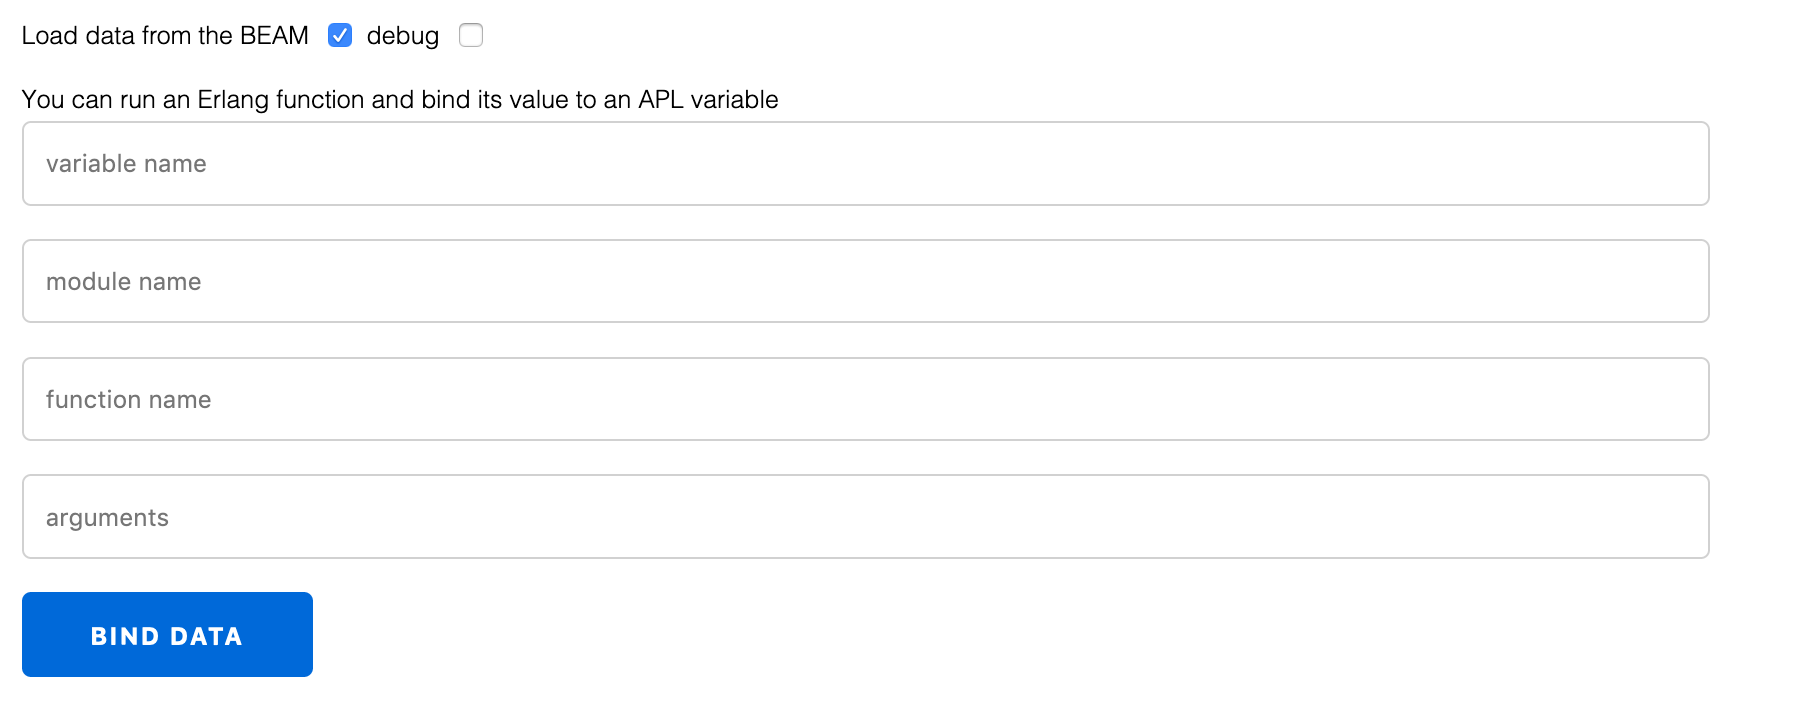
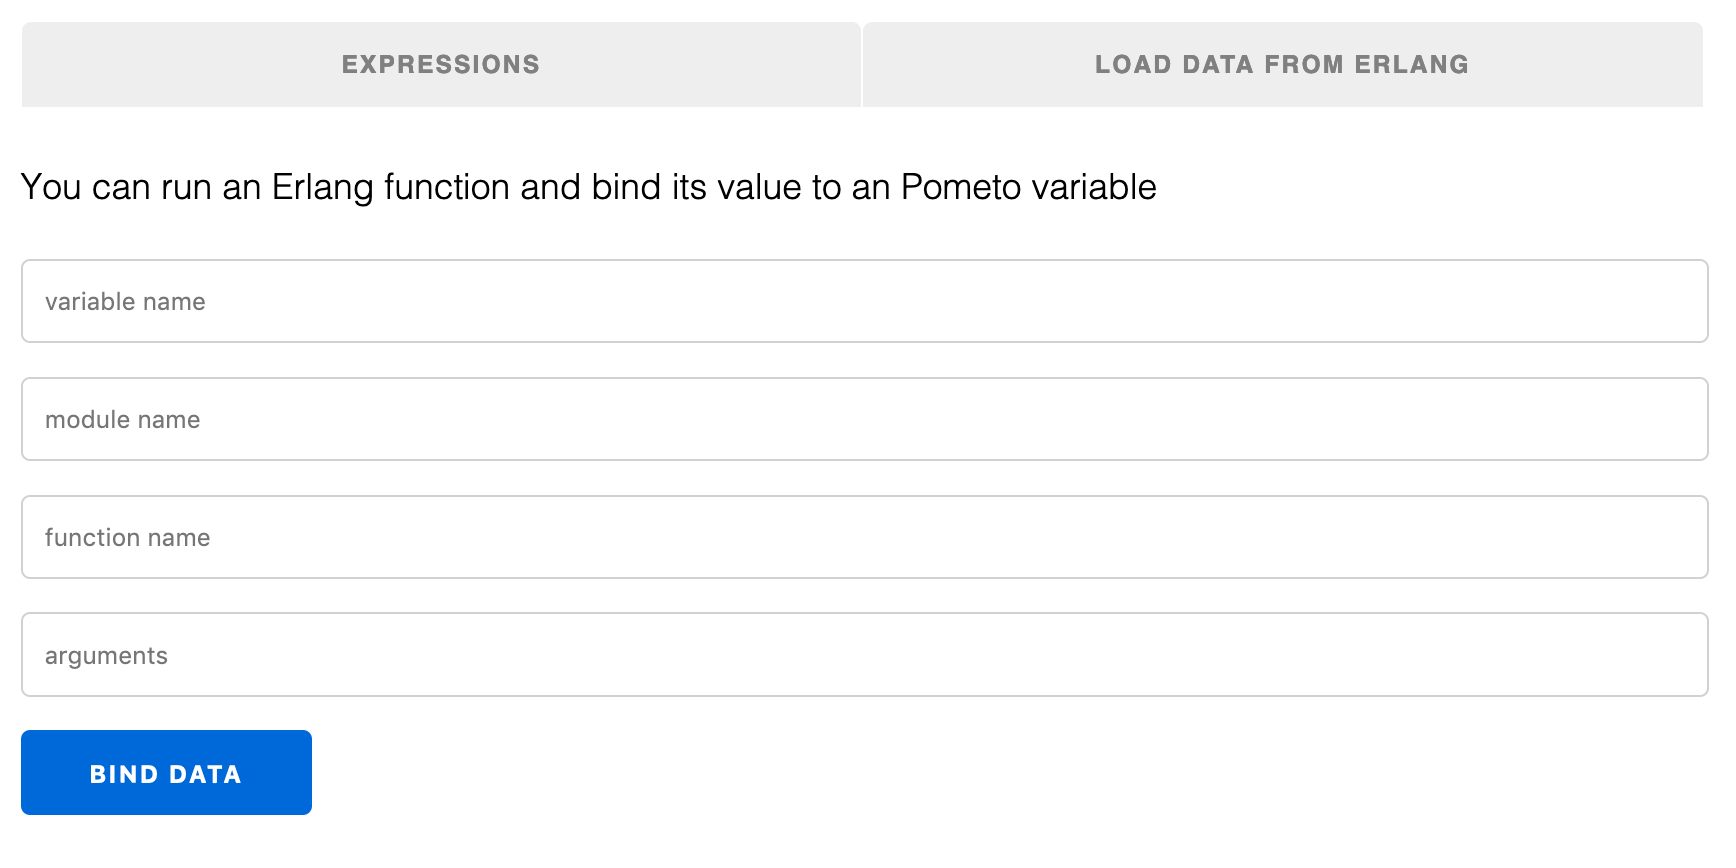
Mixed bag of changes:
* big tidy up of GUI to make it look purtier
* old lexer/parser debugging stripped out becuz proper error handling is on its way
    * not implemented for the parser next
* ability to save and reply sessions
    * the main REPL now accepts multi-line input
    * this will be improved when the comment symbol is wired in - the session save will have the results and external bindings commented in

In addition:

* there is a new cut of the README with new screenshots
* generally making the code more purty, turning mahoosive functions into smaller ones

The CSS as always remains boggin - proper back-end boy does CSS shitshow

diff --git a/apps/rappel_web/assets/css/rappel.css b/apps/rappel_web/assets/css/rappel.css
@@ -8,7 +8,7 @@
 }
 
 .main_output {
-	height: 400px;
+	height: 350px;
 }
 
 .debug {
@@ -54,10 +54,13 @@
 
 .menu-item  {
 	border-radius: 0.4rem 0.4rem 0.0rem 0.0rem;
-	float: left;
-	width: 33.2%;
-	text-align: center;
-	margin: 0.05rem;
+	float:         left;
+	width:         49.7%;
+	text-align:    center;
+	margin:        0.05rem;
+	background:    #eee;
+	color:         gray;
+	border-color:  #eee;
 }
 
 .clear {

diff --git a/README.md b/README.md
@@ -12,9 +12,11 @@ The main screen of `Rappel` allows you to run `Pometo` commands and displays the
 
 ![Main Rappel Panel](./docs/images/rappel_main_page.png)
 
-At the bottom you see a couple of checkboxes.
+The tabs at the top let you switch between the main REPL and the external bindings page.
 
-If you want to load from data from an arbritrary programme click the checkbox marked `bind data`. The syntax currently used is ***Erlang*** syntax for an `apply(mod, fn, [args])`
+At the bottom there is a button to clear the session and a link that opens a new window with a text dump of your session. You can save and replay sessions at will.
+
+The syntax currently used for loading data is ***Erlang*** syntax for an `apply(mod, fn, [args])`
 
 ![Loading External Data](./docs/images/rappel_load_data.png)
 
@@ -54,12 +56,6 @@ The arguments must at the moment be:
 
 `lists` and `tuples` are not currently supported.
 
-
-There is also a debugger for inspecting the results of the `lex` and `parse` stages of the compiler
-
-![The Debugger](./docs/images/rappel_debug.png)
-
-
 # How We Develop
 
 Development is done inside a docker container.
@@ -68,7 +64,7 @@ The docker container mounts the local file system so code can be edited on your 
 
 Ports are punched out from the firewall so that `rappel` can be started in a browser running from your normal host.
 
-Scripts are provided that shell you into the running docker instance. 
+Scripts are provided that shell you into the running docker instance.
 
 The docker container is even jiggered so you can start X-Windows programmes and pop them out (though this is not really necessary).
 
